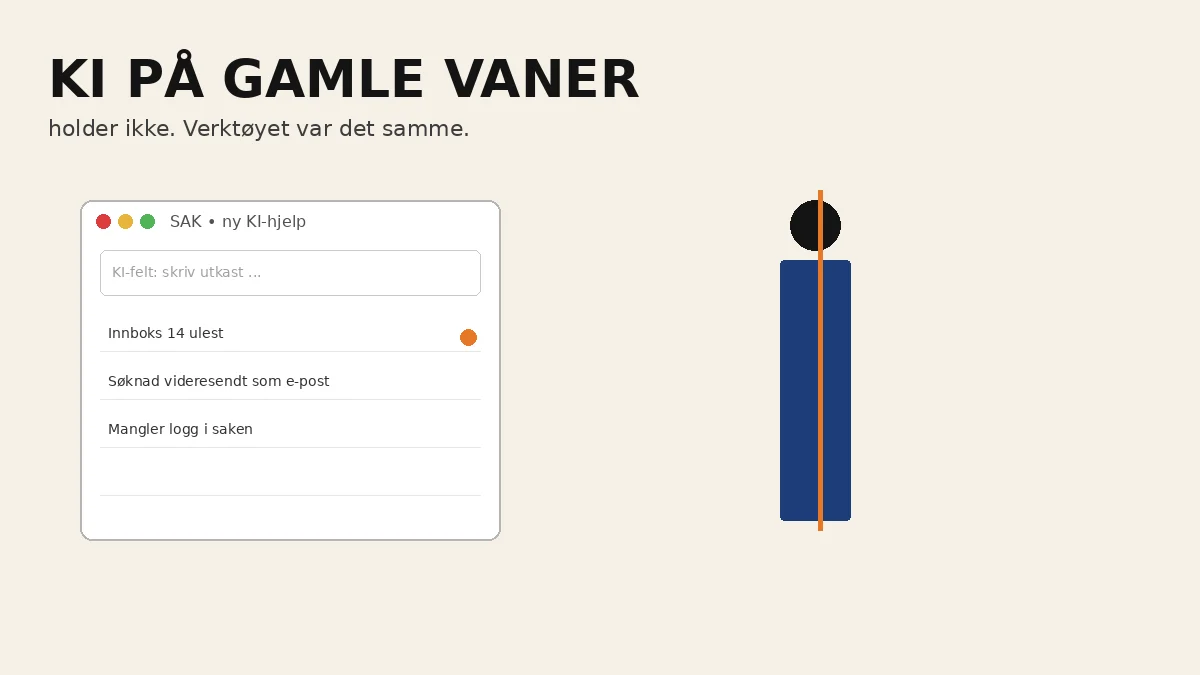
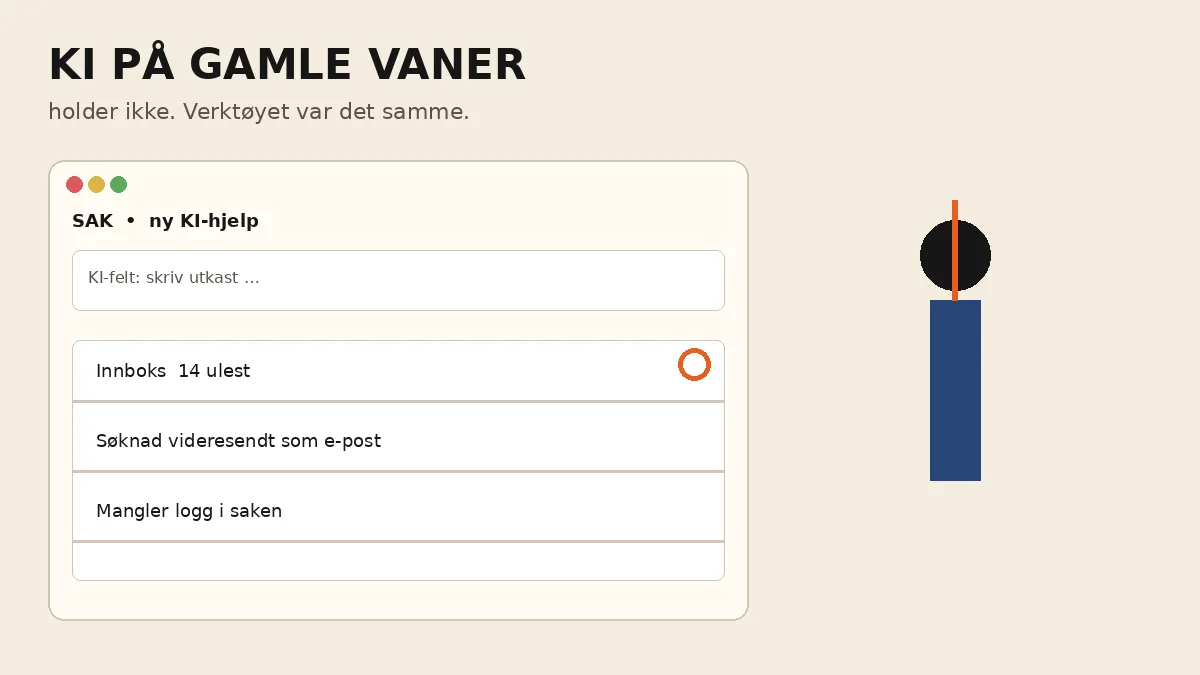
Cover: canonical KI blog WebP (#145)
* Cover: swap KI blog to canonical 16544 B WebP

* XWEB-207: drop hashtag dump and add tjenester link in KI post

Remove keywords frontmatter from ki-pa-gamle-vaner-holder-ikke so the blog
template stops rendering the trailing #KI #saksbehandling paragraph.

Add an in-sentence [tjenester](/tjenester) link in «Det Xala faktisk bygger».
Exempt this post from the global topic-hashtag test.

---------

diff --git a/src/lib/blog/__tests__/topics.test.ts b/src/lib/blog/__tests__/topics.test.ts
@@ -198,7 +198,16 @@ describe('topic keywords and hashtags', () => {
     expect(keywordToHashtag('WCAG 2.2 AA')).toBe('#WCAG22AA');
   });
 
-  it.each(posts.map((post) => [post.slug, post] as const))(
+  const postsWithTopicHashtags = posts.filter((post) => post.slug !== 'ki-pa-gamle-vaner-holder-ikke');
+
+  it('omits the visible topic hashtag line on the KI vaner post', () => {
+    const KI = posts.find((post) => post.slug === 'ki-pa-gamle-vaner-holder-ikke');
+    expect(KI, 'ki-pa-gamle-vaner post missing').toBeDefined();
+    expect(topicHashtagLine(KI!)).toBe('');
+    expect(leftoverHashtagDump(KI!.body)).toBeUndefined();
+  });
+
+  it.each(postsWithTopicHashtags.map((post) => [post.slug, post] as const))(
     '%s publishes 3–5 topic hashtags from keywords, not homepage copy',
     (_slug, post) => {
       const topics = topicKeywords(post);

diff --git a/src/content/blog/2026-09-01-ki-pa-gamle-vaner-holder-ikke.md b/src/content/blog/2026-09-01-ki-pa-gamle-vaner-holder-ikke.md
@@ -11,12 +11,6 @@ cover: "/images/blog/ki-pa-gamle-vaner-holder-ikke.webp"
 draft: false
 lang: no
 tag: "IT-leder"
-keywords:
-  - KI
-  - saksbehandling
-  - vaner
-  - fagsystem
-  - offentlig sektor
 cta: /kontakt
 ---
 
@@ -68,7 +62,7 @@ Kommunen trenger ikke en sjette chatbot. Den trenger at søknaden lander i saken
 
 ## Det Xala faktisk bygger
 
-Xala selger ikke et KI-produkt som erstatter saksbehandleren. Vi bygger saksgangen: portaler og integrasjoner som gjør løkka tydelig.
+Xala selger ikke et KI-produkt som erstatter saksbehandleren. Vi bygger saksgangen: portaler og [tjenester](/tjenester) som gjør løkka tydelig.
 
 I Nordre Follo har vi levert [Bevillingsportal](/produkter/bevillingsportal), [Tilskuddsportal](/produkter/tilskuddsportal) og arbeid med [Redusert foreldrebetaling](/produkter/redusert-foreldrebetaling). Søkeren fyller ut i en flate folk forstår. Saksbehandleren får en flyt med kontroll og logg. Portalene kan kobles til kommunens systemer via API. Det er én kommune i caset. Ikke flere.
 
